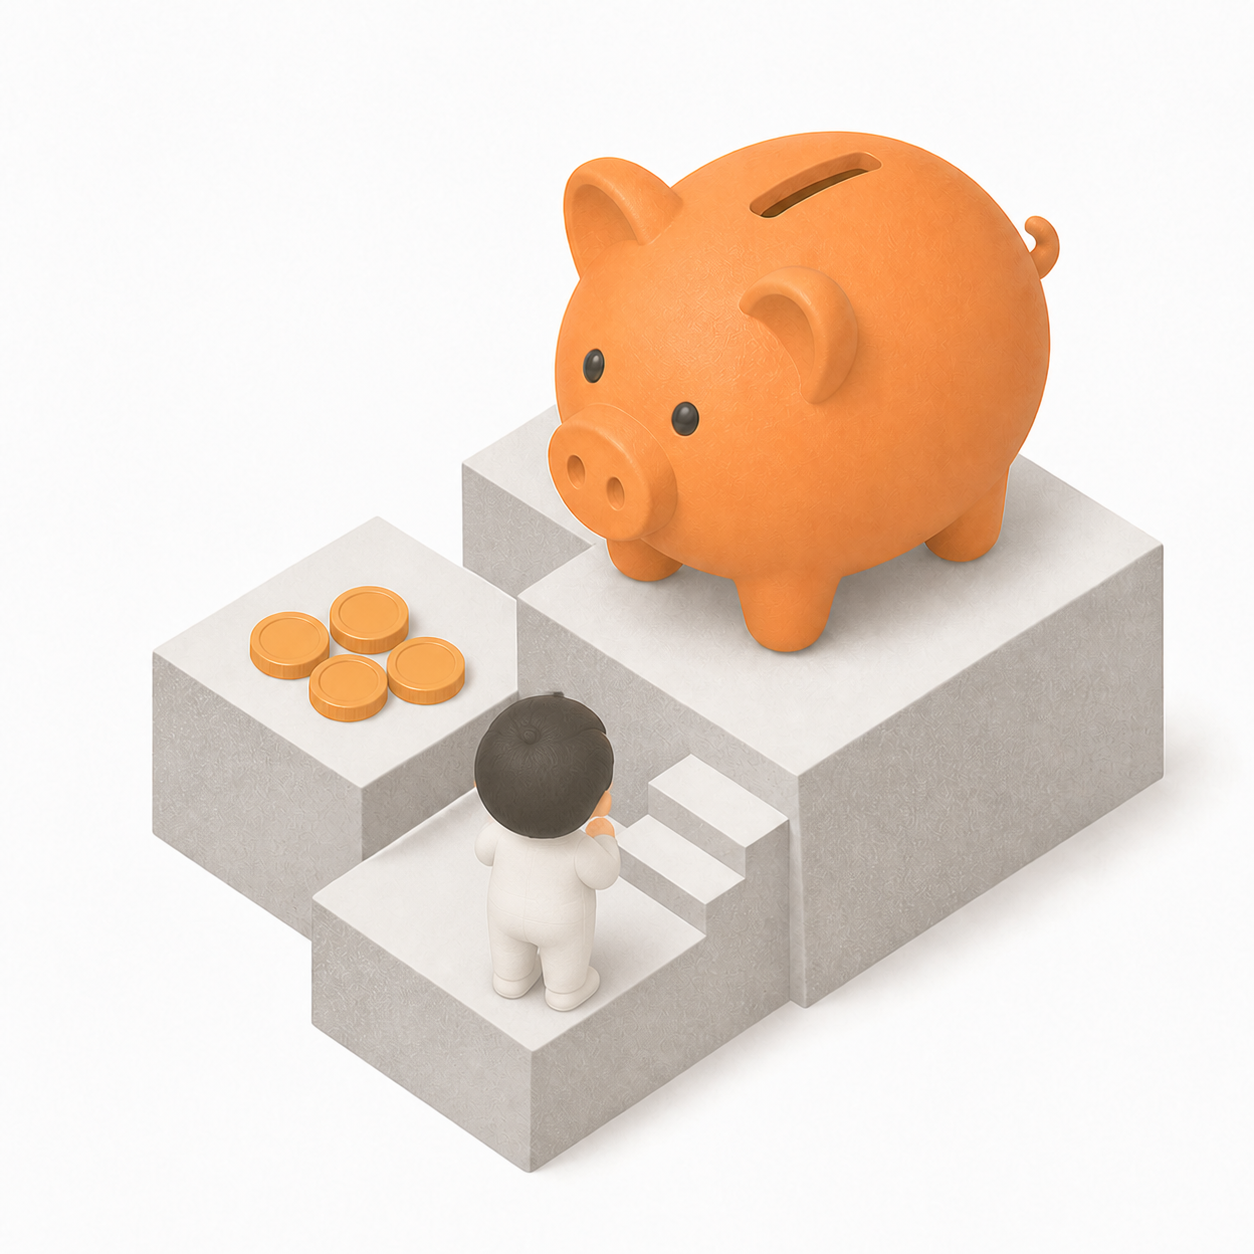
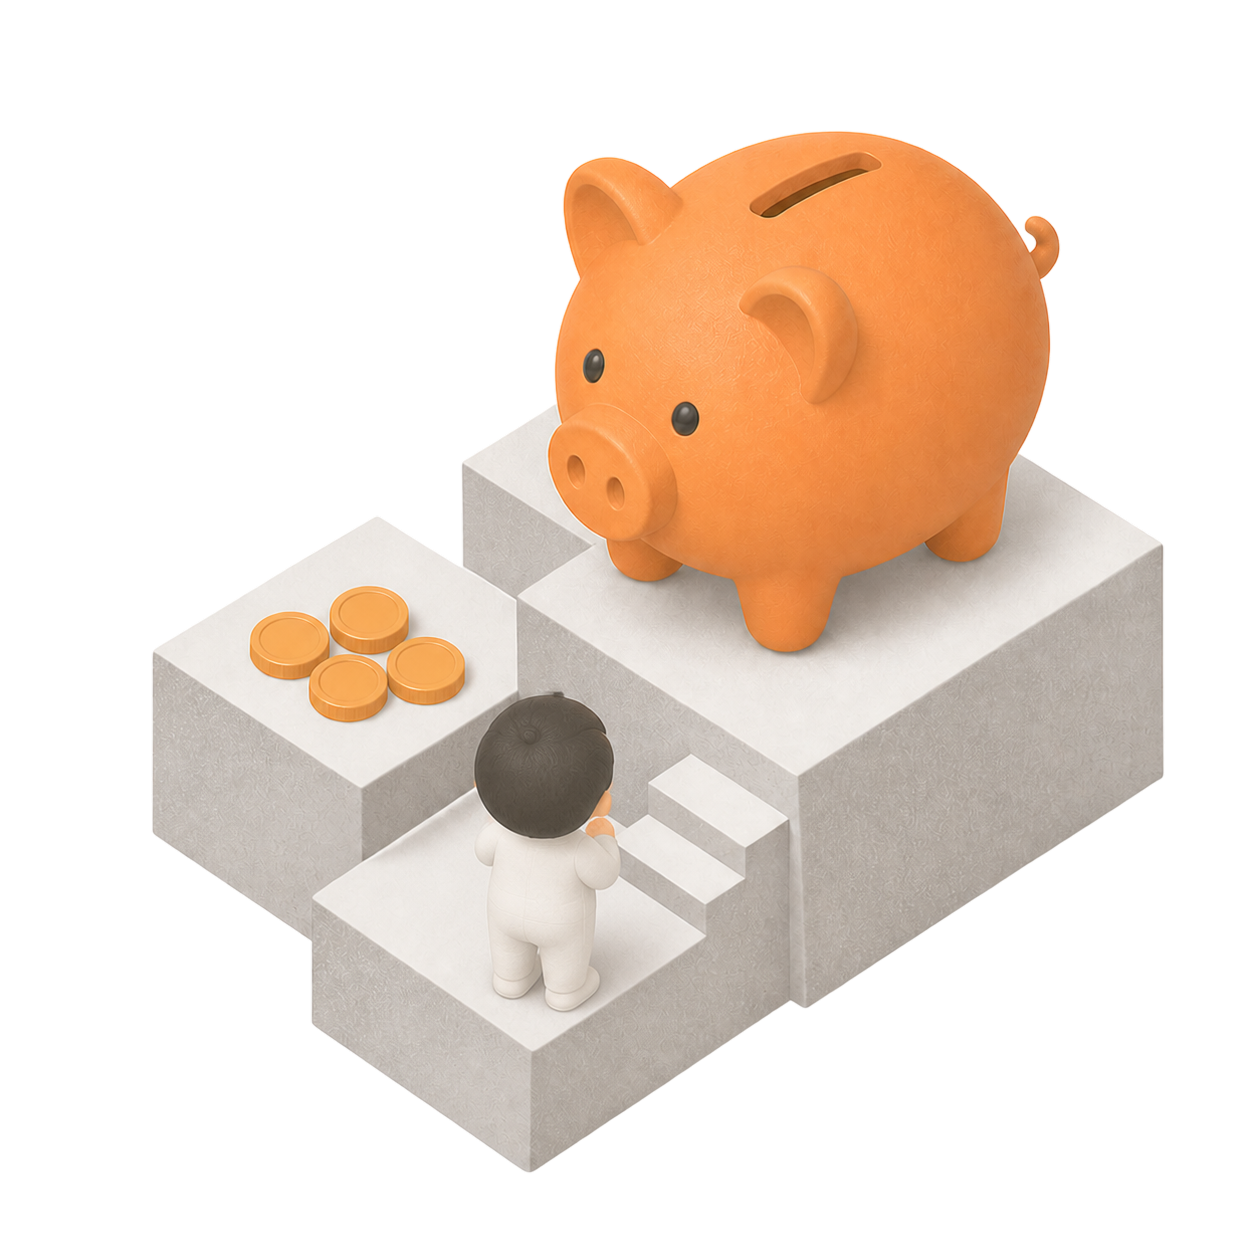
Guide 05 cover: swap illustration to transparent-bg version, scale to 115% (660→759px, center-kept)

Changed region(s): [[0.4354, 0.5909, 0.9641, 0.933]]

diff --git a/index.html b/index.html
@@ -1079,7 +1079,7 @@
   #tab3 .pi-cover-title, #tab4 .pi-cover-title { margin: 0; font-family: var(--font-display); font-weight: 700; font-size: 90px; line-height: 128px; letter-spacing: -1.8px; color: #141415; white-space: nowrap; }
   #tab3 .pi-cover-foot, #tab4 .pi-cover-foot { position: absolute; left: 88px; right: 81px; bottom: 108px; height: 49px; display: flex; align-items: center; justify-content: space-between; }
   #tab3 .pi-cover-illust, #tab4 .pi-cover-illust { position: absolute; left: 50%; transform: translateX(-50%); bottom: 196px; width: 700px; height: auto; display: block; }
-  #tab4 .pi-cover-illust { width: 660px; bottom: 188px; }  /* 05: 정사각 일러스트, 세로 공간에 맞춤 */
+  #tab4 .pi-cover-illust { width: 759px; bottom: 139px; }  /* 05: 정사각 일러스트, 115% 크기(중심 유지) */
   /* 탭4 · 세금 없이 물려주기 가이드 */
   #tab4 .canvas { background: #fff; }
   /* 표지 일러스트 */
